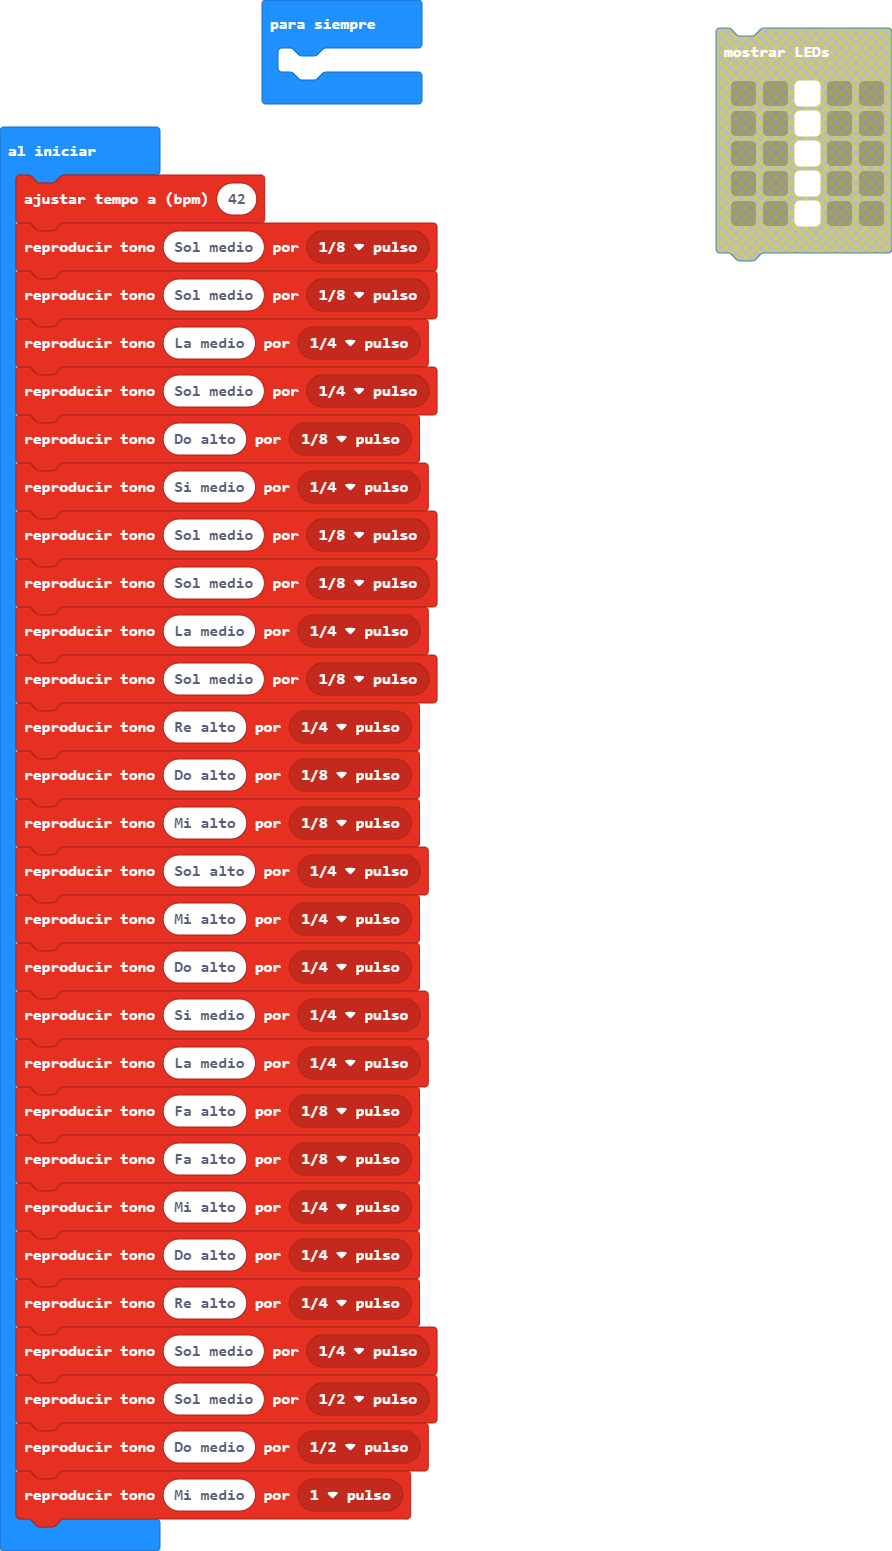
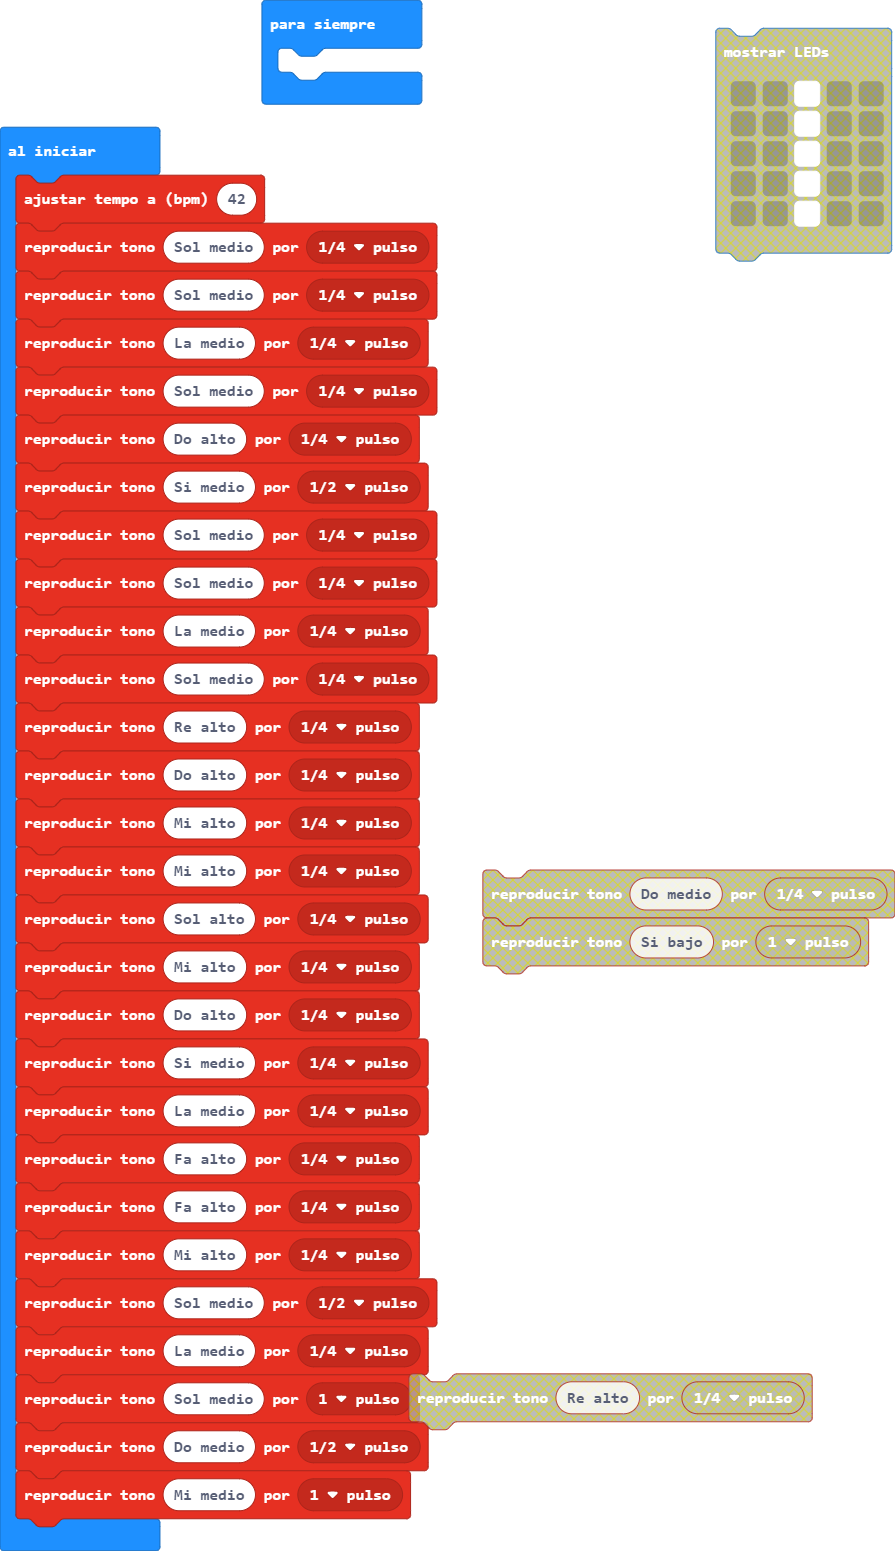
hhhh

diff --git a/main.ts b/main.ts
@@ -1,29 +1,29 @@
 music.setTempo(42)
-music.playTone(392, music.beat(BeatFraction.Eighth))
-music.playTone(392, music.beat(BeatFraction.Eighth))
+music.playTone(392, music.beat(BeatFraction.Quarter))
+music.playTone(392, music.beat(BeatFraction.Quarter))
 music.playTone(440, music.beat(BeatFraction.Quarter))
 music.playTone(392, music.beat(BeatFraction.Quarter))
-music.playTone(523, music.beat(BeatFraction.Eighth))
-music.playTone(494, music.beat(BeatFraction.Quarter))
-music.playTone(392, music.beat(BeatFraction.Eighth))
-music.playTone(392, music.beat(BeatFraction.Eighth))
+music.playTone(523, music.beat(BeatFraction.Quarter))
+music.playTone(494, music.beat(BeatFraction.Half))
+music.playTone(392, music.beat(BeatFraction.Quarter))
+music.playTone(392, music.beat(BeatFraction.Quarter))
 music.playTone(440, music.beat(BeatFraction.Quarter))
-music.playTone(392, music.beat(BeatFraction.Eighth))
+music.playTone(392, music.beat(BeatFraction.Quarter))
 music.playTone(587, music.beat(BeatFraction.Quarter))
-music.playTone(523, music.beat(BeatFraction.Eighth))
-music.playTone(659, music.beat(BeatFraction.Eighth))
+music.playTone(523, music.beat(BeatFraction.Quarter))
+music.playTone(659, music.beat(BeatFraction.Quarter))
+music.playTone(659, music.beat(BeatFraction.Quarter))
 music.playTone(784, music.beat(BeatFraction.Quarter))
 music.playTone(659, music.beat(BeatFraction.Quarter))
 music.playTone(523, music.beat(BeatFraction.Quarter))
 music.playTone(494, music.beat(BeatFraction.Quarter))
 music.playTone(440, music.beat(BeatFraction.Quarter))
-music.playTone(698, music.beat(BeatFraction.Eighth))
-music.playTone(698, music.beat(BeatFraction.Eighth))
+music.playTone(698, music.beat(BeatFraction.Quarter))
+music.playTone(698, music.beat(BeatFraction.Quarter))
 music.playTone(659, music.beat(BeatFraction.Quarter))
-music.playTone(523, music.beat(BeatFraction.Quarter))
-music.playTone(587, music.beat(BeatFraction.Quarter))
-music.playTone(392, music.beat(BeatFraction.Quarter))
 music.playTone(392, music.beat(BeatFraction.Half))
+music.playTone(440, music.beat(BeatFraction.Quarter))
+music.playTone(392, music.beat(BeatFraction.Whole))
 music.playTone(262, music.beat(BeatFraction.Half))
 music.playTone(330, music.beat(BeatFraction.Whole))
 basic.forever(function () {
